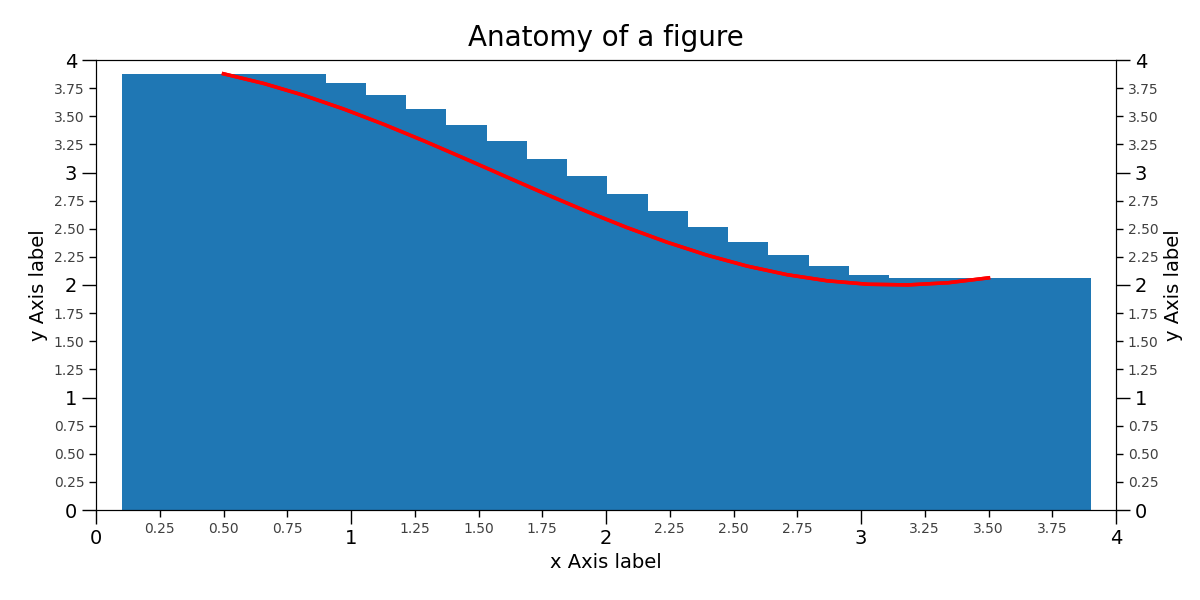
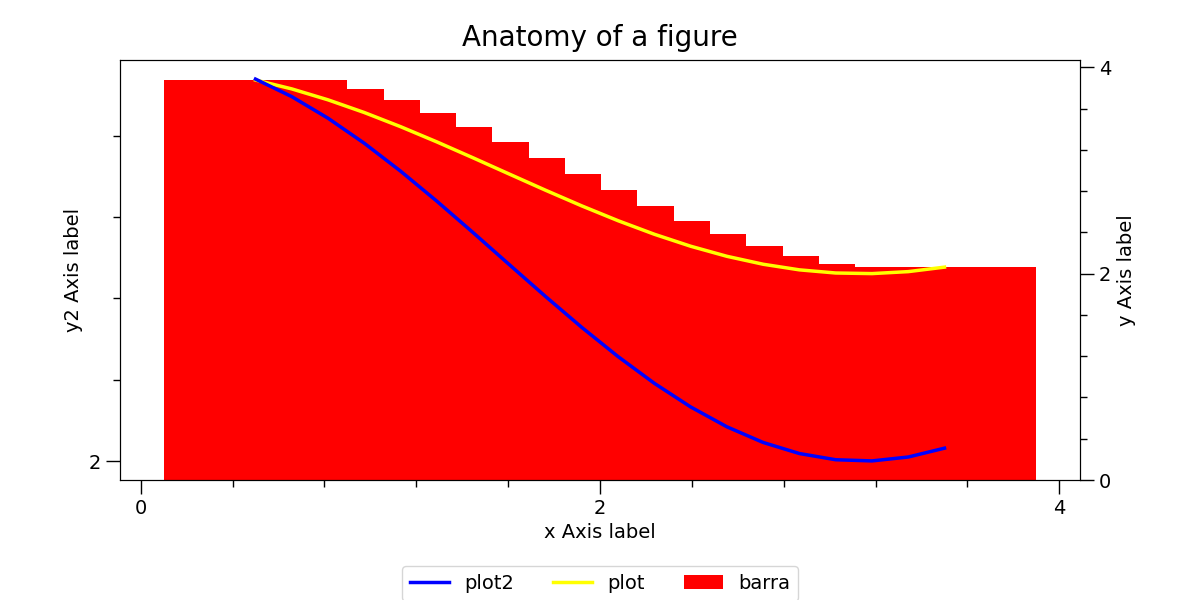
Definindos parâmetros
Definindo a construção dos parâmetros das classes Serie e Graficos no modulo classes.py
Além de Testes feitos com modelos pré-existentes

diff --git a/modules/classes.py b/modules/classes.py
@@ -1,6 +1,7 @@
 
 import matplotlib.pyplot as plt
 import numpy as np
+from matplotlib.dates import DateFormatter
 from matplotlib.figure import Figure
 from matplotlib.font_manager import FontProperties
 from matplotlib.ticker import AutoMinorLocator, MultipleLocator
@@ -8,7 +9,7 @@ from matplotlib.ticker import AutoMinorLocator, MultipleLocator
 plt.rcParams.update({"legend.fontsize":14})
 
 class Serie():
-    def __init__(self,X=None,Y=None,type="plot",label="",toSecundary=False,showLegend=True) -> None:
+    def __init__(self,X=None,Y=None,type="plot",label="",color=None,toSecundary=False,showLegend=True) -> None:
         if X==None or Y==None:
             self.X = np.linspace(0.5, 3.5, 20)
             self.Y = 3+np.cos(self.X)
@@ -16,6 +17,7 @@ class Serie():
             self.X = X
             self.Y = Y
         self.type = type
+        self.color = color
         self.label = label # Atributos para recuperação da informação passada no construtor
         if showLegend:
             self.label_legend = label
@@ -27,10 +29,36 @@ class Serie():
         
 class Grafico():
     def __init__(self,
-                 series:list[Serie]=[Serie(label="linha"),Serie(label="barra",type="bar"),Serie(toSecundary=True)],
+                 series:list[Serie],
                  width=12,
                  height=6,
+                 setup:dict=dict()
                  ) -> None:
+        # Config
+        self.setup:dict = dict(
+            xlim = (None,None),
+            ylim = (None,None),
+            y2lim = (None,None),
+            xMajorFormatter = DateFormatter("%m-%y"),
+            xMinorFormatter = "",
+            yMajorFormatter = "{x:.0f}",
+            yMinorFormatter = "",
+            y2MajorFormatter = "{x:.0f}",
+            y2MinorFormatter = "",
+            xMajorLocator = MultipleLocator(2.),
+            xMinorLocator = AutoMinorLocator(5),
+            yMajorLocator = MultipleLocator(2.),
+            yMinorLocator = AutoMinorLocator(5),
+            y2MajorLocator = MultipleLocator(2.),
+            y2MinorLocator = AutoMinorLocator(5),
+            invertSidesYAxis = True
+        )
+        self.setup.update(setup)
+        
+        # Hardcoded config ######################### Retirar na versão final ######################################
+        self.setup.update(dict(xMajorFormatter = "{x:.0f}"))
+        ###########################################################################################################
+        
         # Figure
         self.fig:Figure = plt.figure(figsize=(width, height))
         
@@ -48,54 +76,60 @@ class Grafico():
             if serie.toSecundary:
                 if not self.hasSecundary:
                     self.ax2 = self.ax.twinx()
+                    if self.setup["invertSidesYAxis"]:
+                        # Inverting sides
+                        self.ax.yaxis.set_label_position("right")
+                        self.ax.yaxis.tick_right()
+                        self.ax2.yaxis.set_label_position("left")
+                        self.ax2.yaxis.tick_left()
                     self.hasSecundary = True
                 # Plot Graph
                 if serie.type=="plot":
-                    self.objectsPlot.append(self.ax2.plot(serie.X, serie.Y, c='red', lw=2.5, label=serie.label_legend, zorder=10))
+                    self.objectsPlot.append(self.ax2.plot(serie.X, serie.Y, color=serie.color, lw=2.5, label=serie.label_legend, zorder=10))
 
                 # Bar Graph
                 elif serie.type=="bar":
-                    self.objectsBar.append(self.ax2.bar(serie.X, serie.Y,label=serie.label_legend))
+                    self.objectsBar.append(self.ax2.bar(serie.X, serie.Y, color=serie.color, label=serie.label_legend))
             else:
                 # Plot Graph
                 if serie.type=="plot":
-                    self.objectsPlot.append(self.ax.plot(serie.X, serie.Y, c='red', lw=2.5, label=serie.label_legend, zorder=10))
+                    self.objectsPlot.append(self.ax.plot(serie.X, serie.Y, color=serie.color, lw=2.5, label=serie.label_legend, zorder=10))
 
                 # Bar Graph
                 elif serie.type=="bar":
-                    self.objectsBar.append(self.ax.bar(serie.X, serie.Y,label=serie.label_legend))
+                    self.objectsBar.append(self.ax.bar(serie.X, serie.Y, color=serie.color, label=serie.label_legend))
                     pass
 
         # Axis X
         self.ax.set_xlabel("x Axis label", fontsize=14)
-        self.ax.set_xlim(0, 4)
+        self.ax.set_xlim(self.setup["xlim"][0],self.setup["xlim"][1])
         self.ax.tick_params(which='major', width=1.0, length=10, labelsize=14, axis="x")
         self.ax.tick_params(which='minor', width=1.0, length=5, labelsize=10, labelcolor='0.25', axis="x")
-        self.ax.xaxis.set_major_locator(MultipleLocator(1.000))
-        self.ax.xaxis.set_major_formatter("{x:.0f}") # Comentar a linha para retirar o número
-        self.ax.xaxis.set_minor_locator(AutoMinorLocator(4))
-        self.ax.xaxis.set_minor_formatter("{x:.2f}") # Comentar a linha para retirar o número
+        self.ax.xaxis.set_major_locator(self.setup["xMajorLocator"])
+        self.ax.xaxis.set_major_formatter(self.setup["xMajorFormatter"])
+        self.ax.xaxis.set_minor_locator(self.setup["xMinorLocator"])
+        self.ax.xaxis.set_minor_formatter(self.setup["xMinorFormatter"])
 
         # Axis Y
         self.ax.set_ylabel("y Axis label", fontsize=14)
-        self.ax.set_ylim(0, 4)
+        self.ax.set_ylim(self.setup["ylim"][0],self.setup["ylim"][1])
         self.ax.tick_params(which='major', width=1.0, length=10, labelsize=14, axis="y")
         self.ax.tick_params(which='minor', width=1.0, length=5, labelsize=10, labelcolor='0.25', axis="y")
-        self.ax.yaxis.set_major_locator(MultipleLocator(1.000))
-        self.ax.yaxis.set_major_formatter("{x:.0f}") # Comentar a linha para retirar o número
-        self.ax.yaxis.set_minor_locator(AutoMinorLocator(4))
-        self.ax.yaxis.set_minor_formatter("{x:.2f}") # Comentar a linha para retirar o número
+        self.ax.yaxis.set_major_locator(self.setup["yMajorLocator"])
+        self.ax.yaxis.set_major_formatter(self.setup["yMajorFormatter"])
+        self.ax.yaxis.set_minor_locator(self.setup["yMinorLocator"])
+        self.ax.yaxis.set_minor_formatter(self.setup["yMinorFormatter"])
         
         # Axis Y2        
         if self.hasSecundary:
-            self.ax2.set_ylabel("y Axis label", fontsize=14)
-            self.ax2.set_ylim(0, 4)
+            self.ax2.set_ylabel("y2 Axis label", fontsize=14)
+            self.ax2.set_ylim(self.setup["y2lim"][0],self.setup["y2lim"][1])
             self.ax2.tick_params(which='major', width=1.0, length=10, labelsize=14, axis="y")
             self.ax2.tick_params(which='minor', width=1.0, length=5, labelsize=10, labelcolor='0.25', axis="y")
-            self.ax2.yaxis.set_major_locator(MultipleLocator(1.000))
-            self.ax2.yaxis.set_major_formatter("{x:.0f}") # Comentar a linha para retirar o número
-            self.ax2.yaxis.set_minor_locator(AutoMinorLocator(4))
-            self.ax2.yaxis.set_minor_formatter("{x:.2f}") # Comentar a linha para retirar o número
+            self.ax2.yaxis.set_major_locator(self.setup["y2MajorLocator"])
+            self.ax2.yaxis.set_major_formatter(self.setup["y2MajorFormatter"])
+            self.ax2.yaxis.set_minor_locator(self.setup["y2MinorLocator"])
+            self.ax2.yaxis.set_minor_formatter(self.setup["y2MinorFormatter"])
         
         
         self.ax.set_title("Anatomy of a figure", fontsize=20, verticalalignment='bottom')
@@ -105,13 +139,28 @@ class Grafico():
         # self.ax.plot(X, Y2, c='C1', lw=2.5, label="Orange signal")
         # self.ax.plot(X[::3], Y3[::3], linewidth=0, markersize=9, marker='s', markerfacecolor='none', markeredgecolor='C4', markeredgewidth=2.5)
         
-        self.ax.legend(loc="upper center", bbox_to_anchor=(0.5,-0.2), ncols=5, borderaxespad=0.1)
+        handles1, labels1 = self.ax.get_legend_handles_labels()
+        handles = handles1
+        labels = labels1
+        if self.hasSecundary:
+            handles2, labels2 = self.ax2.get_legend_handles_labels()
+            if self.setup["invertSidesYAxis"]:
+                handles = handles2 + handles
+                labels = labels2 + labels
+            else:
+                handles += handles2
+                labels += labels2
+        self.handles, self.labels = handles, labels
+        self.ax.legend(self.handles, self.labels, loc="upper center", bbox_to_anchor=(0.5,-0.2), ncols=5, borderaxespad=0.1)
         
         # self.fig.patch.set(linewidth=4, edgecolor='0.5')
-        self.fig.savefig("1.png")
+    
+    def save (self,path:str):
+        self.fig.savefig(path)
 
 class Serie3D(Serie):
     def __init__(self, X=None, Y=None, Z=None, type="scatter", label="", toSecundary=False, showLegend=True) -> None:
+        """!!!!!! Ainda não implementado !!!!!!"""
         self.Z = Z
         super().__init__(X, Y, type, label, toSecundary, showLegend)
 
@@ -121,4 +170,5 @@ class Grafico3D(Grafico):
         """!!!!!! Ainda não implementado !!!!!!"""
         super().__init__(series, width, height)
 
-Grafico()
+graph = Grafico(series=[Serie(label="barra",type="bar",color="red"),Serie(label="plot",color="yellow"),Serie(label="plot2",toSecundary=True,color="blue")])
+graph.save("1.png")
